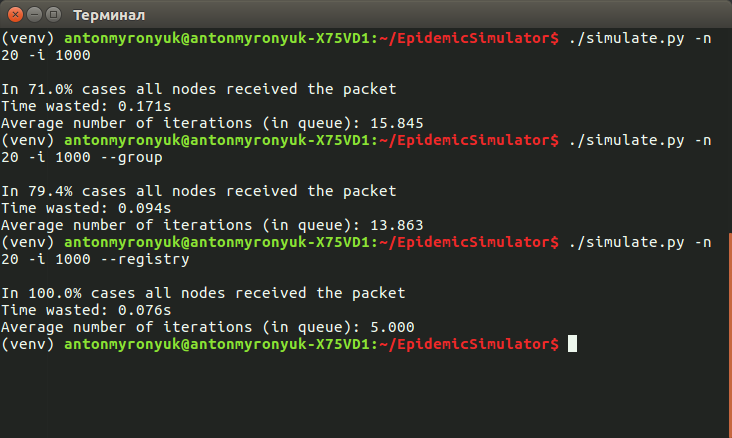
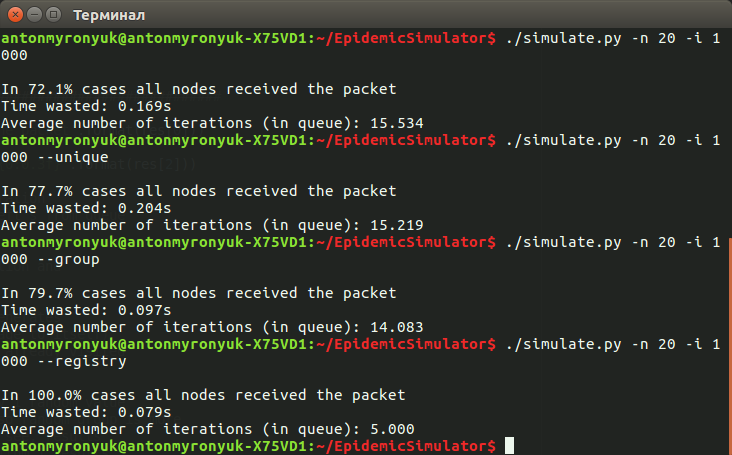
add another version of simple epidemy simulator

diff --git a/simulate.py b/simulate.py
@@ -94,6 +94,49 @@ def simulate_random(nodes_num, packages_num=4):
     return all(nodes), it_num
 
 
+# ############################ ALGORITHM 1_1 ###################################
+def simulate_random_unique(nodes_num, packages_num=4):
+    """
+    Each node sends packets to unique random nodes. If node have
+    already received a package it wouldn't sent it to others.
+    :return: True if all nodes have received a package else False
+    and iterations number
+    """
+    def process_node():
+        """
+        Process current node in queue: choose random nodes
+        to send a package and set current node to visited
+        """
+
+        q.popleft()  # remove from queue
+        # choose only unique nodes
+        lst = list(range(nodes_num))  # like registry
+
+        for _ in range(packages_num):
+            receiver = randint(0, len(lst) - 1)
+
+            if not nodes[lst[receiver]]:
+                # if not visited, visit it and add to queue
+                nodes[lst[receiver]] = True
+                q.append(lst[receiver])
+
+            del lst[receiver]
+
+    q = deque()  # queue contain nodes indexes to process
+
+    # False - node is not visited (hasn't received a package earlier)
+    # True - visited (already have received a package)
+    nodes = [False] * nodes_num
+
+    q.append(0)  # start from 0 node
+    nodes[0] = True  # set it to visited
+
+    it_num = start_epidemic(q, nodes, process_node)  # main process
+
+    # check if all nodes have received a package
+    return all(nodes), it_num
+
+
 # ############################ ALGORITHM 2 ###################################
 def simulate_group_random(nodes_num, packages_num=4):
     """
@@ -221,6 +264,8 @@ if __name__ == '__main__':
                         help='smart group random algorithm')
     parser.add_argument('--registry', action='store_true',
                         help='algorithm with indexes registry')
+    parser.add_argument('--unique', action='store_true',
+                        help='algorithm with unique random')
     # if you give two parameters: --group and
     # --registry only group will be used
     arguments = parser.parse_args()
@@ -235,6 +280,8 @@ if __name__ == '__main__':
         func = simulate_group_random
     elif arguments.registry:
         func = simulate_random_registry
+    elif arguments.unique:
+        func = simulate_random_unique
     else:
         func = simulate_random
 
@@ -247,9 +294,14 @@ if __name__ == '__main__':
     # we count only processing of node as single iteration
     # in fact: number of iterations = number of popleft's from queue
 
-    # algorithm 1 is the most slowest because it generates
+    # algorithm 1 is slow because it generates
     # packages_num=4 random receivers for each iteration and
     # choose a lot of already visited nodes
+
+    # algorithm 1_1 is the most slowest because it generates
+    # packages_num=4 random unique (it may send package to itself)
+    # receivers for each iteration and should delete already visited
+    # nodes from list
 
     # algorithm 2 is faster, because it generate only 1 random value
     # other values are neighbours for this value; also random group is more

diff --git a/README.md b/README.md
@@ -3,8 +3,9 @@
 <img src="/readme_images/help.png">
 
 ## Algorithms
- 1) Simple random
- 2) Group random
+ 1) - simple random (may send more than one package from one node to another)  
+    - unique random (may send package to itself)
+ 2) Group random (may send package to itself)
  3) Random from registry  
 
 As you can see below group random is better than simple random.  
